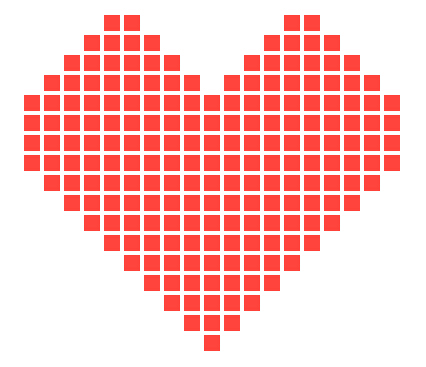
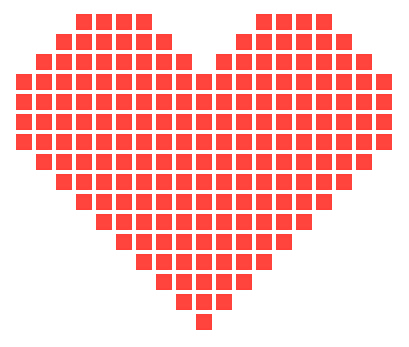
fix 8 height

Changed region(s): [[0.0293, 0.0288, 0.9682, 0.9222], [0.4694, 0.951, 0.5281, 0.9798]]

diff --git a/demo.htm b/demo.htm
@@ -12,12 +12,12 @@
 	<div class="wrap" id="wrap"></div>
 	<div class="wrap" id="big"></div>
 <script type="text/javascript">
-var h = new Heart();
-h.init();
+var test = new Heart();
+test.init();
 
 var opt = {
 	parentId: "big",//容器id
-	triangleH: 16,  //底部三角形的高，通过它来控制心形的大小
+	triangleH: 10,  //底部三角形的高，通过它来控制心形的大小
 	color: [		//颜色值，随机取，数组长度为1时为单一颜色
 		"#FF443E"
 	]
